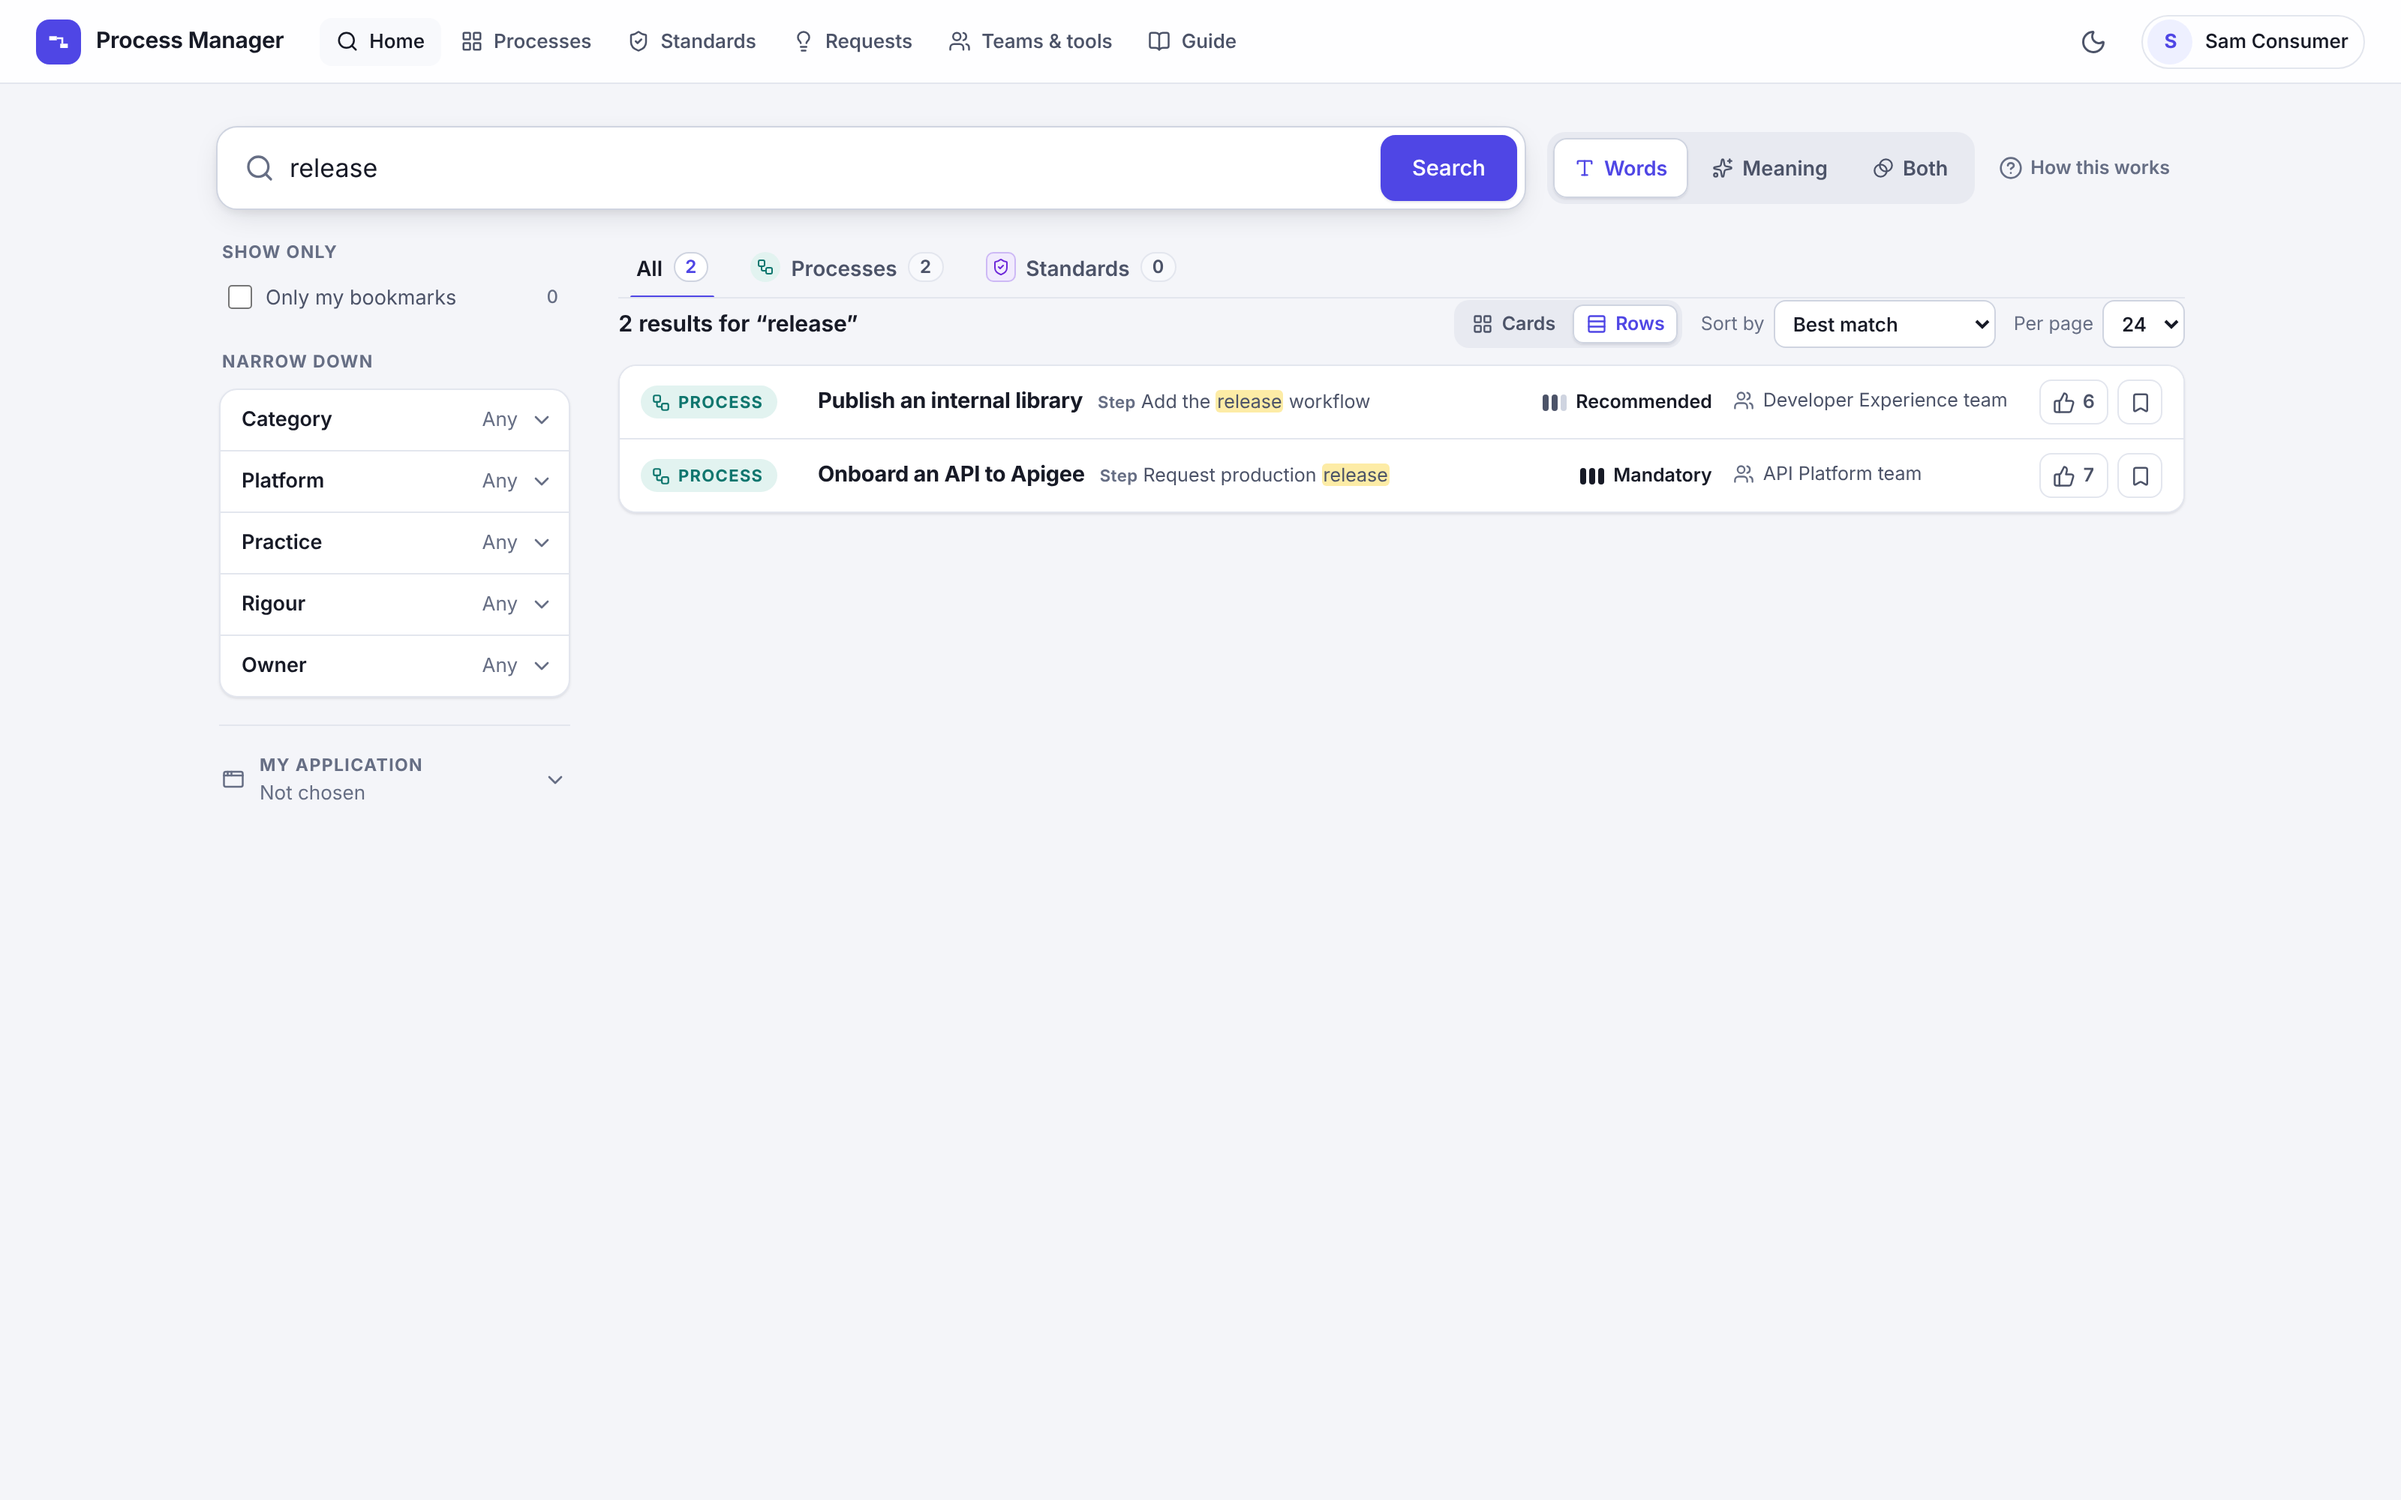
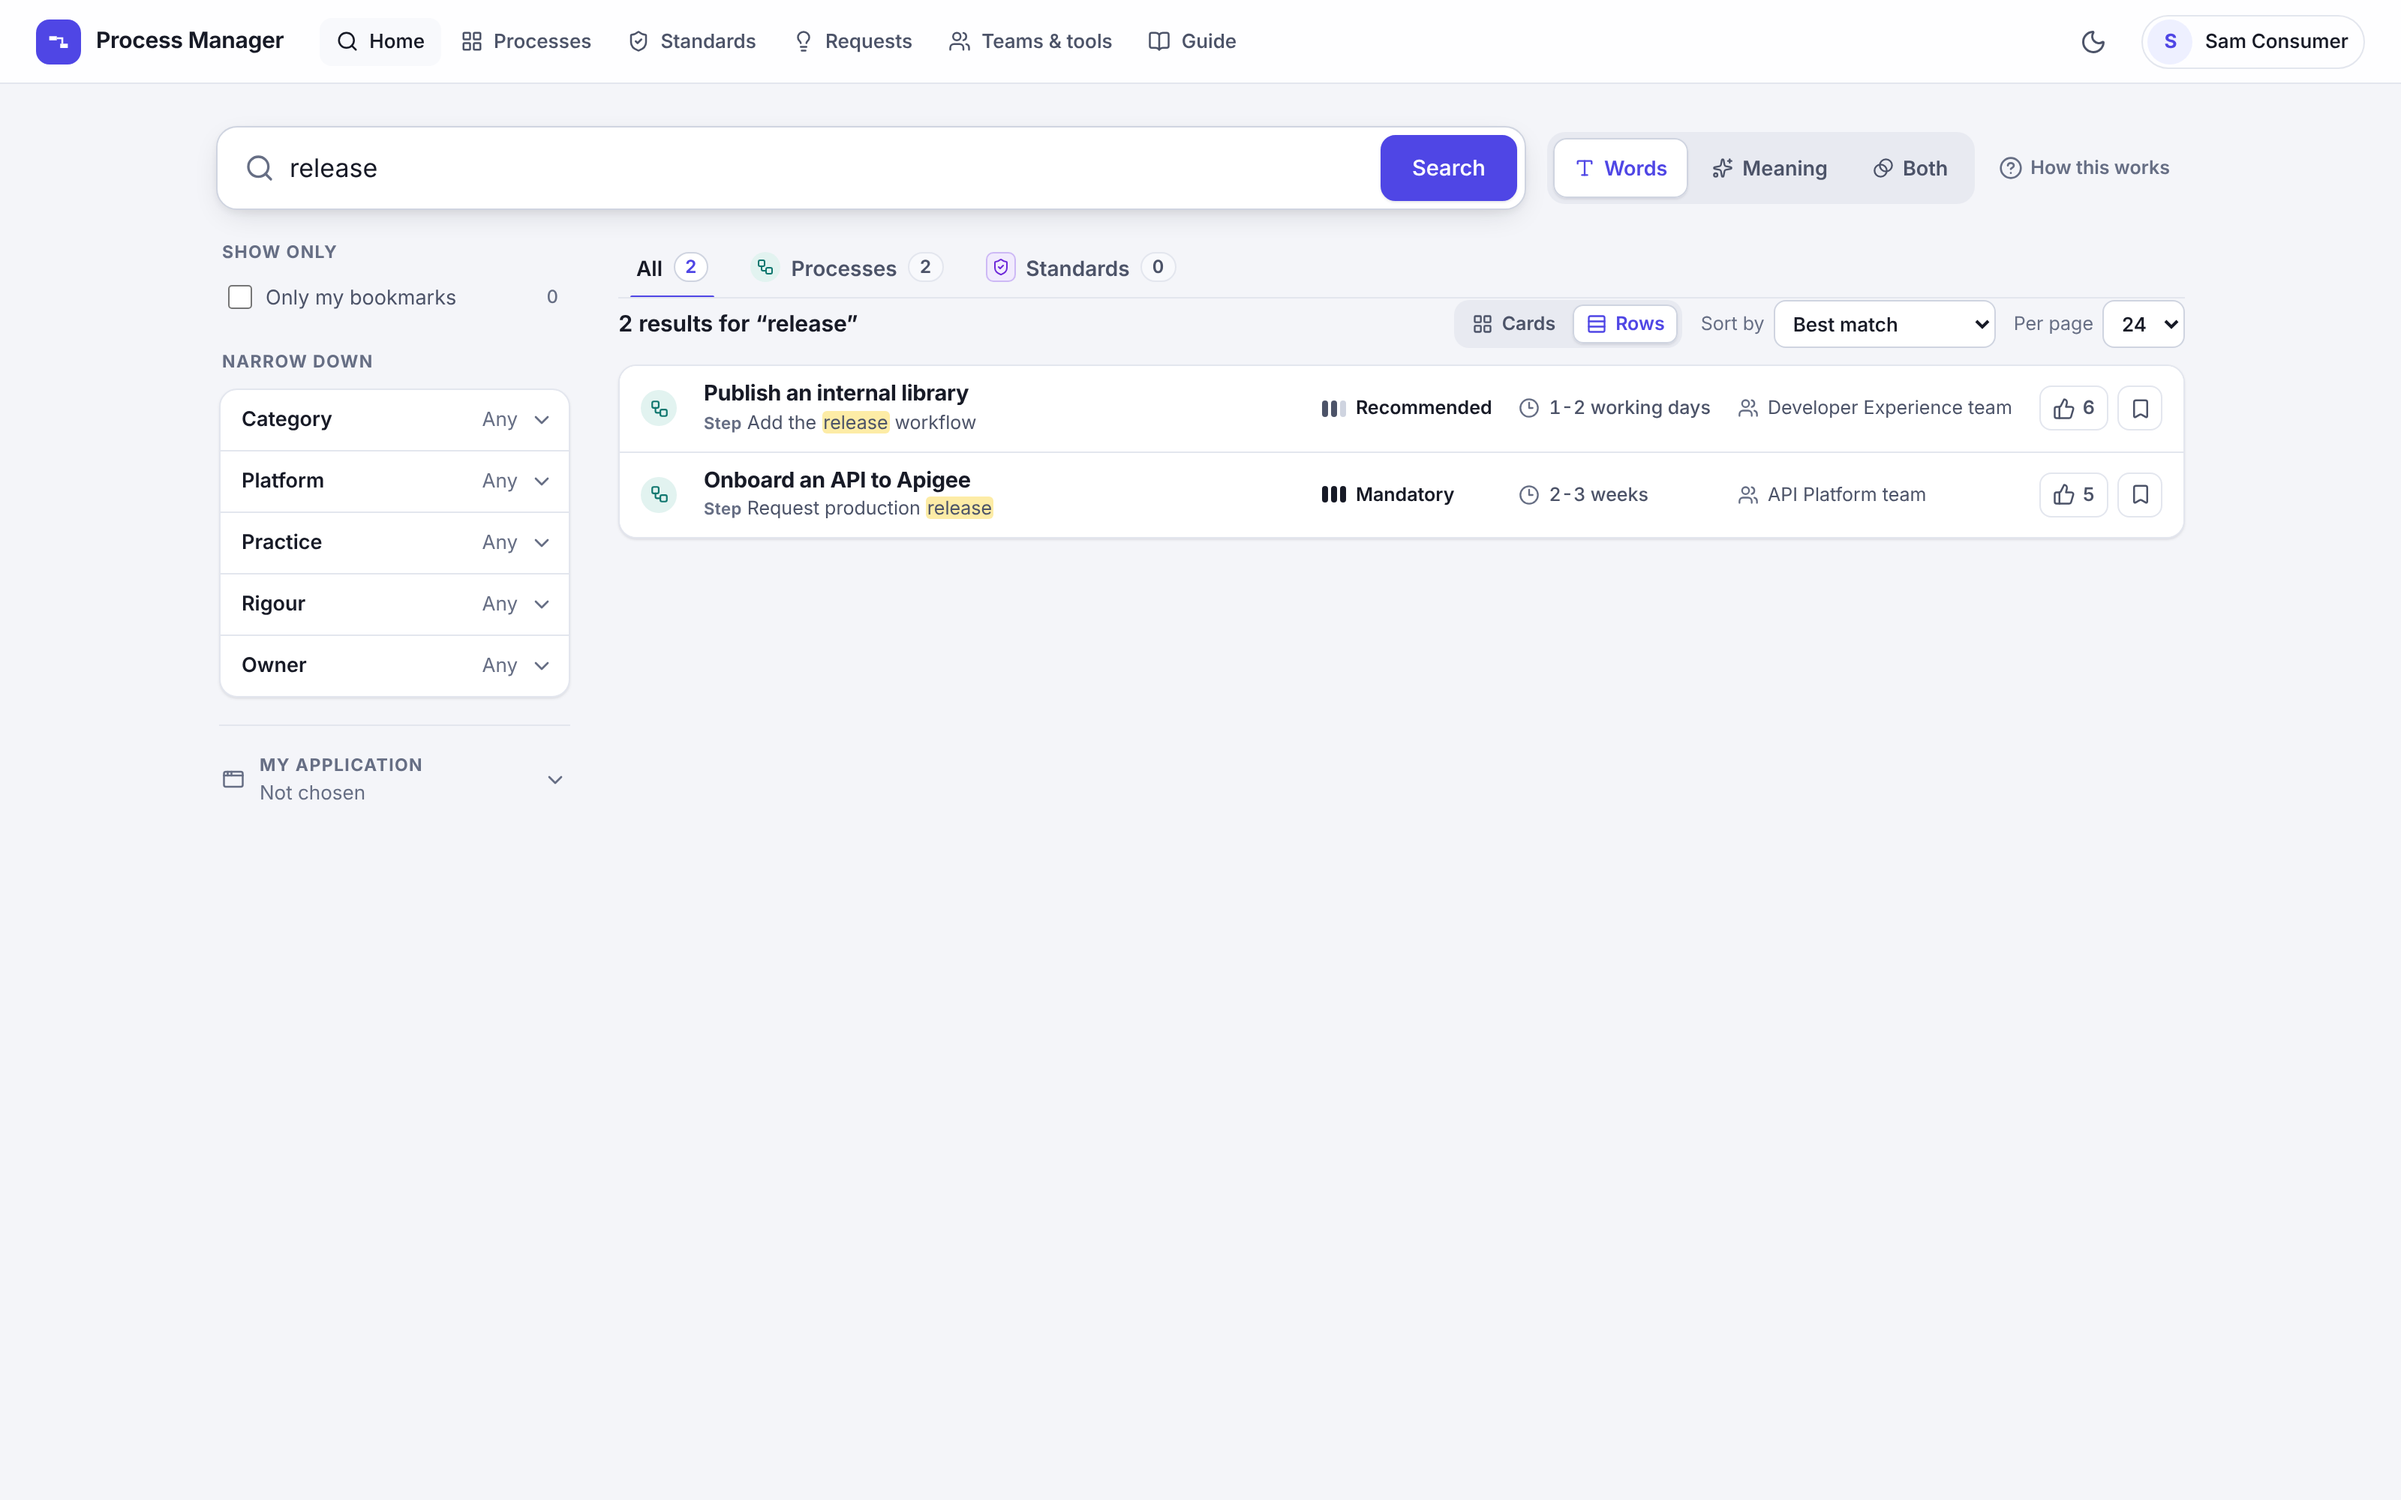
Fifth design round: Save draft always works, editing messages say where every answer goes, problems on their fields, print, rows as one grid
- A never-published process or standard keeps unfinished changes as its draft; a newer draft is
  never overwritten without a question; conflicts name people; every discard is logged
- Deleting or moving a step never renames an answer and says what changed, with Undo
- Problems are written as instructions and shown on the field they belong to
- The maps open readable (60-100%), lane names keep whole words, keyboard focus stays in view
- Reader's pages print as documents; a phone opens on the checklist; buttons on the tab row
- Lists and search: rows as one grid, filters from old links, closest by meaning keeps tabs and filters
- Requests: one next action plus More; skip link; Admin and Activity in plainer words
- Guide, backend contract, conventions and screenshots follow

Claude-Session: https://claude.ai/code/session_011qCrvi8b2eDbxEg6hLHvxQ

Changed region(s): [[0.25, 0.248, 0.9062, 0.372], [0.6562, 0.31, 0.8125, 0.341]]

diff --git a/e2e/pages.spec.ts b/e2e/pages.spec.ts
@@ -387,6 +387,8 @@ test("from 1000 px wide the reader's buttons sit on the tab row, icons only belo
   await page.setViewportSize({ width: 1440, height: 900 });
   await open(page, "/p/request-gcp-project/flow");
   const onTabs = page.locator(".tabs-row .engage-actions");
+  // the buttons are a named group there too, as in the head
+  await expect(page.getByRole("group", { name: "What you can do with this process" })).toBeVisible();
   await expect(onTabs.getByRole("button", { name: "Give feedback" })).toBeVisible();
   await expect(onTabs.getByRole("button", { name: /^Upvote / })).toBeVisible();
   await expect(onTabs.getByRole("button", { name: /^Bookmark / })).toBeVisible();
